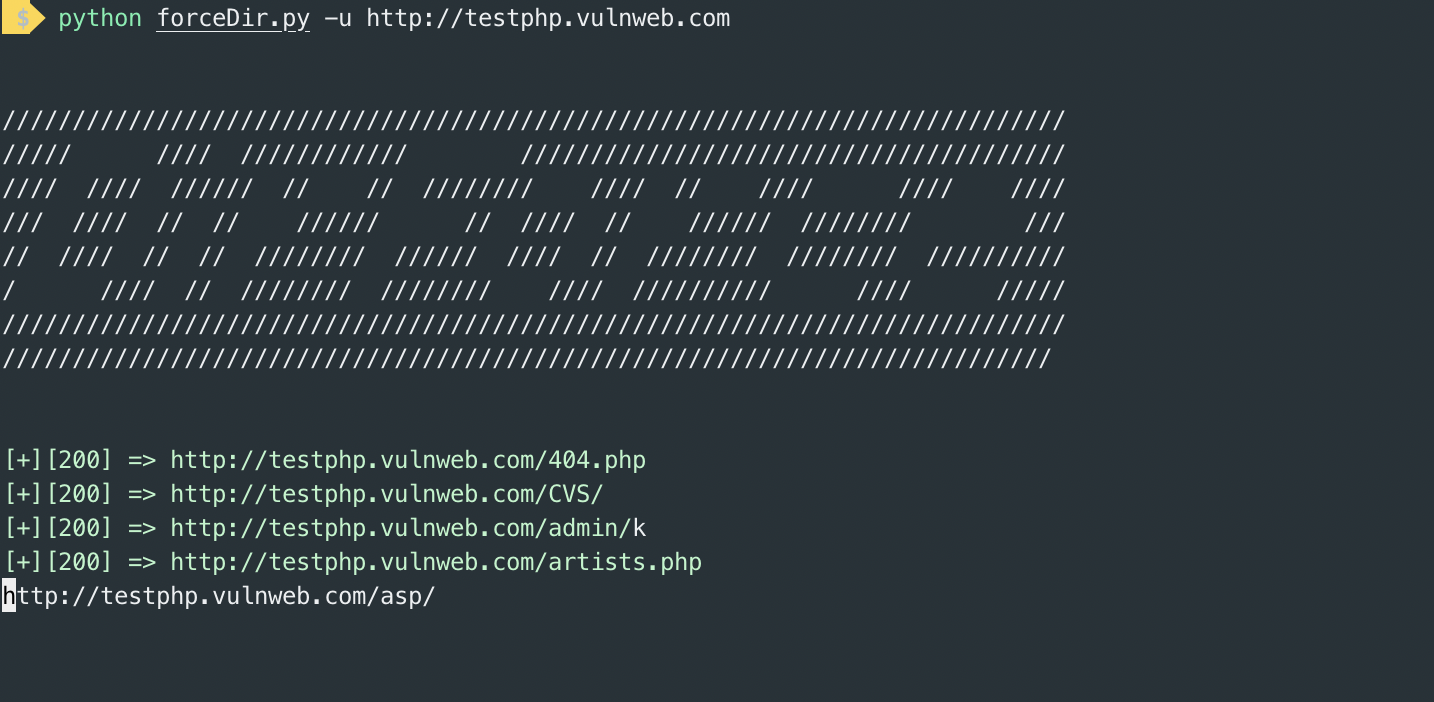
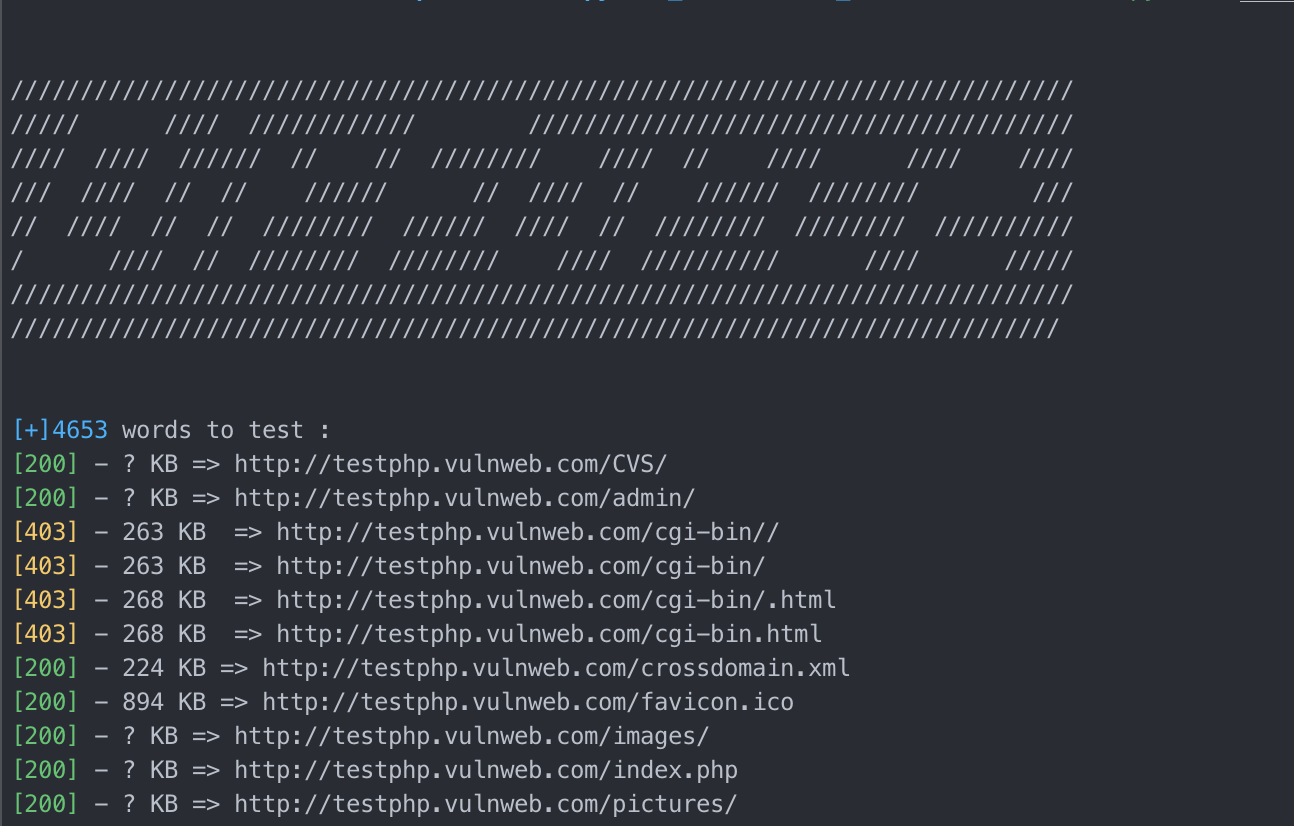
implementation with urllib3, follow redirection, get size

diff --git a/brute_force/forceDir.py b/brute_force/forceDir.py
@@ -1,4 +1,4 @@
-import requests
+import urllib3
 import threading
 import queue
 import argparse
@@ -13,14 +13,20 @@ parser.add_argument("-t", "--threads", help="number of threads", default=10)
 parser.add_argument("-a", "--useragent", help="user-agent to use", default="Mozilla/5.0 (X11; Linux x86_64; rv:19.0) Gecko/20100101 Firefox/19.0")
 parser.add_argument("-e", "--extensions", help="Extensions lists", nargs="+")
 args = parser.parse_args()
-target_url = args.url
+if args.url.endswith('/'):
+    target_url = args.url.rstrip('/')
+else:
+    target_url = args.url
 wordlist_file = args.wordlist
 threads  = args.threads
 resume = None
 user_agent = args.useragent
+threads_list = []
 
 """ Handle control-c """
 def signal_handler(signal, frame):
+    for thread in threads_list:
+        thread.kill_received = True
     print(f"\n {bcolors.BOLD}Exiting program...{bcolors.ENDC}")
     sys.exit(0)
 
@@ -37,6 +43,8 @@ class bcolors:
     BOLD = '\033[1m'
     UNDERLINE = '\033[4m'
 
+""" urllib3 """
+http = urllib3.PoolManager()
 
 try:
 
@@ -76,23 +84,32 @@ try:
             # if extensions is given
             if extensions:
                 for ext in extensions:
-                    attempt_list.append(f"/{attempt}{ext}")
+                    attempt_list.append(f"/{attempt}.{ext}")
 
             for brute in attempt_list:
                 url = target_url + brute
                 sys.stdout.write('\033[K')
                 print(url, end='\r')
                 try:
-                    headers = {}
+                    headers = {}    
                     headers['User-Agent'] = user_agent
-                    response = requests.get(url, headers=headers)
-                    
-                    if response.status_code == 200:
-                        print (f"{bcolors.OKGREEN}[+][{response.status_code}] => {url}{bcolors.ENDC}")
+                    r = http.request('GET', url, headers=headers)
+                    r_headers = dict(r.headers)
+                    try:
+                        content_length = r_headers['Content-Length']
+                    except KeyError:
+                        content_length = "?"
+                    if r.status == 200:
+                        print (f"{bcolors.OKGREEN}[{r.status}]{bcolors.ENDC} - {content_length} KB => {url}")
+                    elif r.status == 302:
+                        r = http.request('GET', url, headers=headers, redirect=True)
+                        print (f"{bcolors.WARNING}[{r.status}]{bcolors.ENDC} - {content_length} KB => {url} redirect to => {r.geturl()} ")
+                    elif r.status != 404:
+                        print (f"{bcolors.WARNING}[{r.status}]{bcolors.ENDC} - {content_length} KB  => {url}")
 
-                except requests.HTTPError as e:
-                    #if response.status_code != 404:                     
-                    print (f"{bcolors.FAIL}[-][{e.code}] =>{url}{bcolors.ENDC}")                  
+                except urllib3.exceptions.HTTPError as e:
+                    if r.status != 404:                     
+                        print (f"{bcolors.FAIL}[{e.code}]{bcolors.ENDC} =>{url}")                  
                     pass
 
     def print_banner():
@@ -109,16 +126,17 @@ try:
             
     print_banner()
     word_q = build_wordlist(wordlist_file)
+    print(f'{bcolors.OKBLUE}[+]{word_q.qsize()}{bcolors.ENDC} words to test : ')
     if args.extensions:
         extensions = args.extensions
     else:
-        extensions = ['.php', '.bak']
-
+        extensions = ['html']
     for i in range(threads):
         t = threading.Thread(target=dir_bruter, args=(word_q, extensions))
         t.start()
+        threads_list.append(t)
 except:
-    print(f"{bcolors.FAIL}[-] An error occured")
+    print(f"{bcolors.FAIL}[-] An error occured{bcolors.ENDC}")
     exit(1)
 
 
